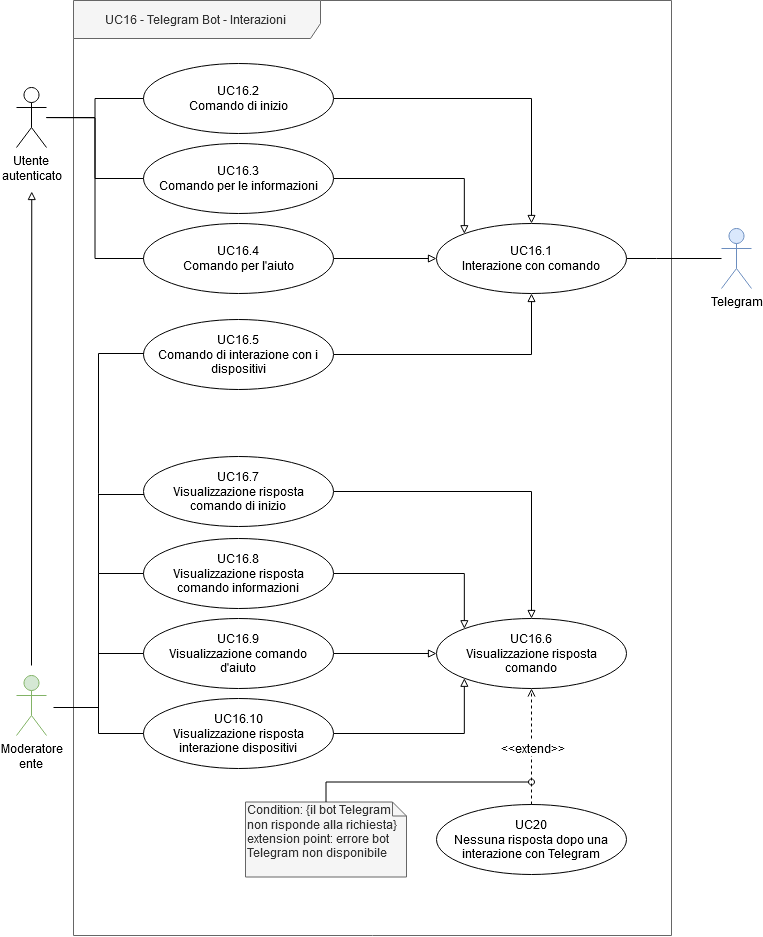
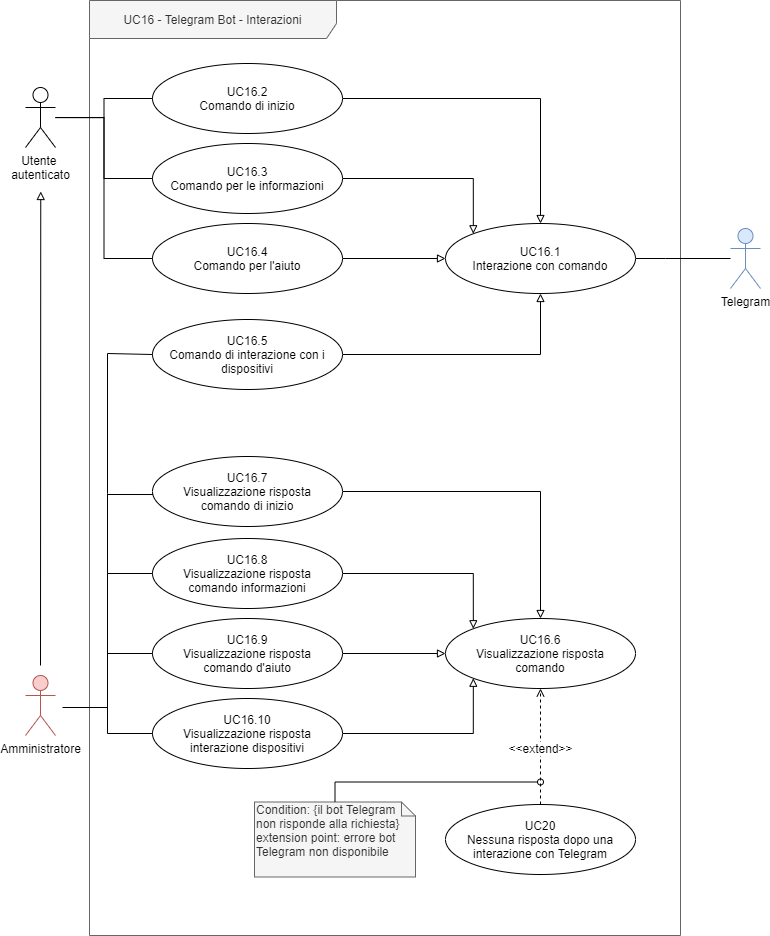
Cambio di versione AdR, errata corriege RA-F-44

diff --git a/esterni/analisi_requisiti/res/sections/Sez3-CasiDUso/uc16.tex b/esterni/analisi_requisiti/res/sections/Sez3-CasiDUso/uc16.tex
@@ -7,7 +7,7 @@
 	\end{figure}
 
 	\begin{itemize}
-		\item \textbf{attori primari:} utente autenticato, moderatore ente;
+		\item \textbf{attori primari:} utente autenticato, amministratore;
 		\item \textbf{attori secondari:} \glock{Telegram};
 		\item \textbf{descrizione:} l'utente mentre è nell'applicazione di \glock{Telegram} può eseguire delle interazioni per gestire dispositivi remoti nel sistema o ricevere informazioni particolari;
 		\item \textbf{precondizione:} l'utente sta usando l'applicazione di \glock{Telegram} e ha eseguito l'autenticazione;
@@ -21,7 +21,7 @@
 	\subsubsection{UC 16.1 - Interazione con comando}
 
 	\begin{itemize}
-		\item \textbf{attori primari:} utente autenticato, moderatore ente;
+		\item \textbf{attori primari:} utente autenticato, amministratore;
 		\item \textbf{attori secondari:} \glock{Telegram};
 		\item \textbf{descrizione:} l'utente esegue una interazione con \glock{Telegram} e riceve una risposta in base al comando che ha inviato;
 		\item \textbf{precondizione:} l'utente sta usando l'applicazione di \glock{Telegram};
@@ -94,7 +94,7 @@
 	\subsubsection{UC 16.5 - Comando di interazione con i dispositivi}
 
 	\begin{itemize}
-		\item \textbf{attori primari:} moderatore ente;
+		\item \textbf{attori primari:} amministratore;
 		\item \textbf{attori secondari:} \glock{Telegram};
 		\item \textbf{descrizione:} l'utente esegue una interazione per inviare un input testuale ad un dispositivo attivo;
 		\item \textbf{precondizione:} l'utente ha iniziato a interagire con \glock{Telegram} e l'utente è autenticato come Moderatore ente.
@@ -179,7 +179,7 @@
 	\subsubsection{UC 16.10 - Visualizzazione risposta interazione dispositivi}
 
 		\begin{itemize}
-			\item \textbf{attori primari:} moderatore ente;
+			\item \textbf{attori primari:} amministratore;
 			\item \textbf{attori secondari:} \glock{Telegram};
 			\item \textbf{descrizione:} l'utente riceve un messaggio di ritorno su \glock{Telegram}, dopo aver inviato il comando, che segnala l'invio corretto dell'input al dispositivo;
 			\item \textbf{precondizione:} l'utente ha iniziato a interagire con l'applicazione di \glock{Telegram} e ha inviato un comando;

diff --git a/esterni/analisi_requisiti/res/sections/Sez4-ClassificazioneRequisiti/ClassificazioneRequisiti.tex b/esterni/analisi_requisiti/res/sections/Sez4-ClassificazioneRequisiti/ClassificazioneRequisiti.tex
@@ -113,9 +113,9 @@ In questa parte, vengono riportati i requisiti del progetto, classificati per ti
 		\req{C}{F}{41}  	& Il moderatore ente deve poter visualizzare la lista logs degli utenti del suo ente & UC 9 \autism
 		\req{C}{F}{42}  	& L'amministratore deve poter visualizzare la lista logs degli utenti di sistema & UC 13 \autism
 		% input e comandi
-		\req{A}{F}{43}  	& Il moderatore ente deve poter visualizzare la lista dispositivi autorizzati all'invio dei comandi & UC 16.4 \autism
-		\req{A}{F}{44}  	& Il moderatore ente deve poter inviare comandi ai singoli dispositivi autorizzati per il loro ente & UC 16.5.5 \autism
-		\sreq{B}{F}{44.1} 	& L'invio dei comandi deve avvenire tramite un bot \glock{Telegram} & UC 16.5.5 \autism
+		\req{A}{F}{43}  	& L'amministratore deve poter visualizzare la lista dispositivi autorizzati all'invio dei comandi & UC 16.4 \autism
+		\req{A}{F}{44}  	& L'amministratore deve poter inviare comandi ai singoli dispositivi censiti & UC 16.5 \autism
+		\sreq{B}{F}{44.1} 	& L'invio dei comandi deve avvenire tramite un bot \glock{Telegram} & UC 16.5 \autism
 		% configurazione
 		\req{A}{F}{45} 		& Un amministratore deve poter visualizzare la configurazione dei dispositivi censiti nel sistema & UC 5.2 \autism
 		\req{A}{F}{46}  	& Un amministratore deve poter censire un nuovo dispositivo & UC 5.3 \autism

diff --git a/esterni/analisi_requisiti/res/sections/Sez5-Tracciamento/Tracciamento.tex b/esterni/analisi_requisiti/res/sections/Sez5-Tracciamento/Tracciamento.tex
@@ -90,8 +90,8 @@
 					\req{C}{F}{42} & UC 13\\ \hline
 					% input e comandi
 					\req{A}{F}{43} & UC 16.4\\ \hline
-					\req{A}{F}{44} & UC 16.5.5\\ \hline
-					\sreq{B}{F}{44.1} & UC 16.5.5\\ \hline
+					\req{A}{F}{44} & UC 16.5\\ \hline
+					\sreq{B}{F}{44.1} & UC 16.5\\ \hline
 					% configurazione
 					\req{A}{F}{45} & UC 5.2\\ \hline
 					\req{A}{F}{46} & UC 5.3\\ \hline
@@ -271,7 +271,7 @@
 				\multirow{2}{*}{UC 15.1}	& \req{A}{F}{33} \\
 																	& \req{A}{F}{63} \\ \hline
 				UC 16.4	& \req{A}{F}{43} \\ \hline
-				\multirow{2}{*}{UC 16.5.5}	&	\req{A}{F}{44} \\
+				\multirow{2}{*}{UC 16.5}	&	\req{A}{F}{44} \\
 																		& \sreq{B}{F}{44.1} \\ \hline
 				\multirow{2}{*}{UC 18}
 				& \req{A}{F}{60} \\

diff --git a/esterni/analisi_requisiti/main.tex b/esterni/analisi_requisiti/main.tex
@@ -12,7 +12,7 @@
 % --------------
 
 \newcommand{\docNome}{ ANALISI DEI REQUISITI }
-\newcommand{\docBaseline}{+b0.15}
+\newcommand{\docBaseline}{+b1.0}
 \newcommand{\docVersione}{1.4.0\docBaseline}
 \newcommand{\docNomeProgetto}{ ThiReMa Project }
 \newcommand{\docStatus}{Approvato}
